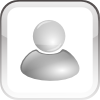
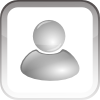
Fixing issue #522 photo window is disturbed. The top semi-transparent area over the user photo is removed.
git-svn-id: https://svn.java.net/svn/jitsi~svn/trunk@5008 198c5059-ef06-4ec0-9a75-fdd6b0ef00a6

Changed region(s): [[0.0, 0.0, 0.99, 0.3], [0.33, 0.18, 0.63, 0.33]]

diff --git a/src/net/java/sip/communicator/impl/gui/customcontrols/FramedImage.java b/src/net/java/sip/communicator/impl/gui/customcontrols/FramedImage.java
@@ -22,8 +22,6 @@ import net.java.sip.communicator.util.*;
 public class FramedImage
     extends JComponent
 {
-    private final Image shadowImage;
-
     private final Image frameImage;
 
     private Image image;
@@ -50,9 +48,6 @@ public class FramedImage
         this.frameImage =
             ImageUtils.scaleImageWithinBounds(ImageLoader
                 .getImage(ImageLoader.USER_PHOTO_FRAME), width, height);
-        this.shadowImage =
-            ImageUtils.scaleImageWithinBounds(ImageLoader
-                .getImage(ImageLoader.USER_PHOTO_SHADOW), width, height);
 
         if (imageIcon != null)
         {
@@ -82,8 +77,5 @@ public class FramedImage
 
         g.drawImage(frameImage, width / 2 - frameImage.getWidth(null) / 2,
             height / 2 - frameImage.getHeight(null) / 2, null);
-
-        g.drawImage(shadowImage, width / 2 - shadowImage.getWidth(null) / 2, 1,
-            null);
     }
 }
